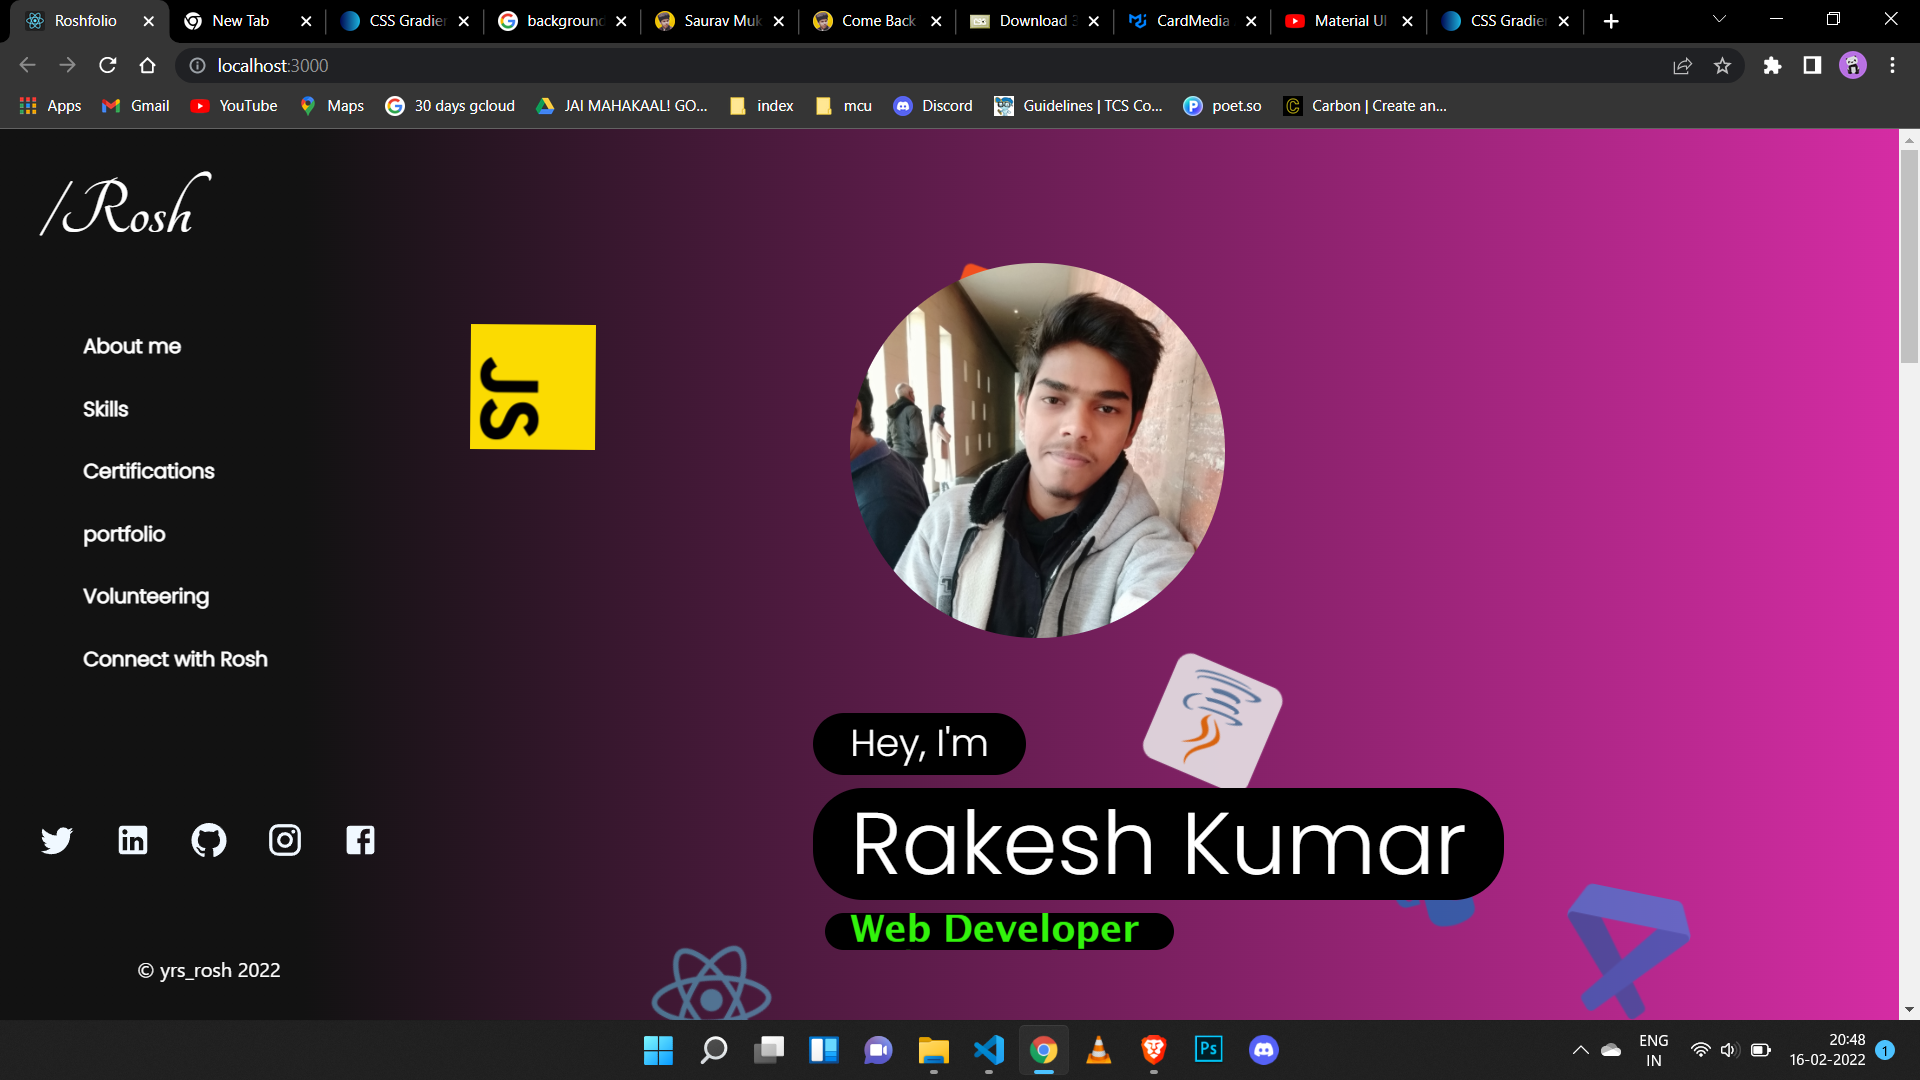
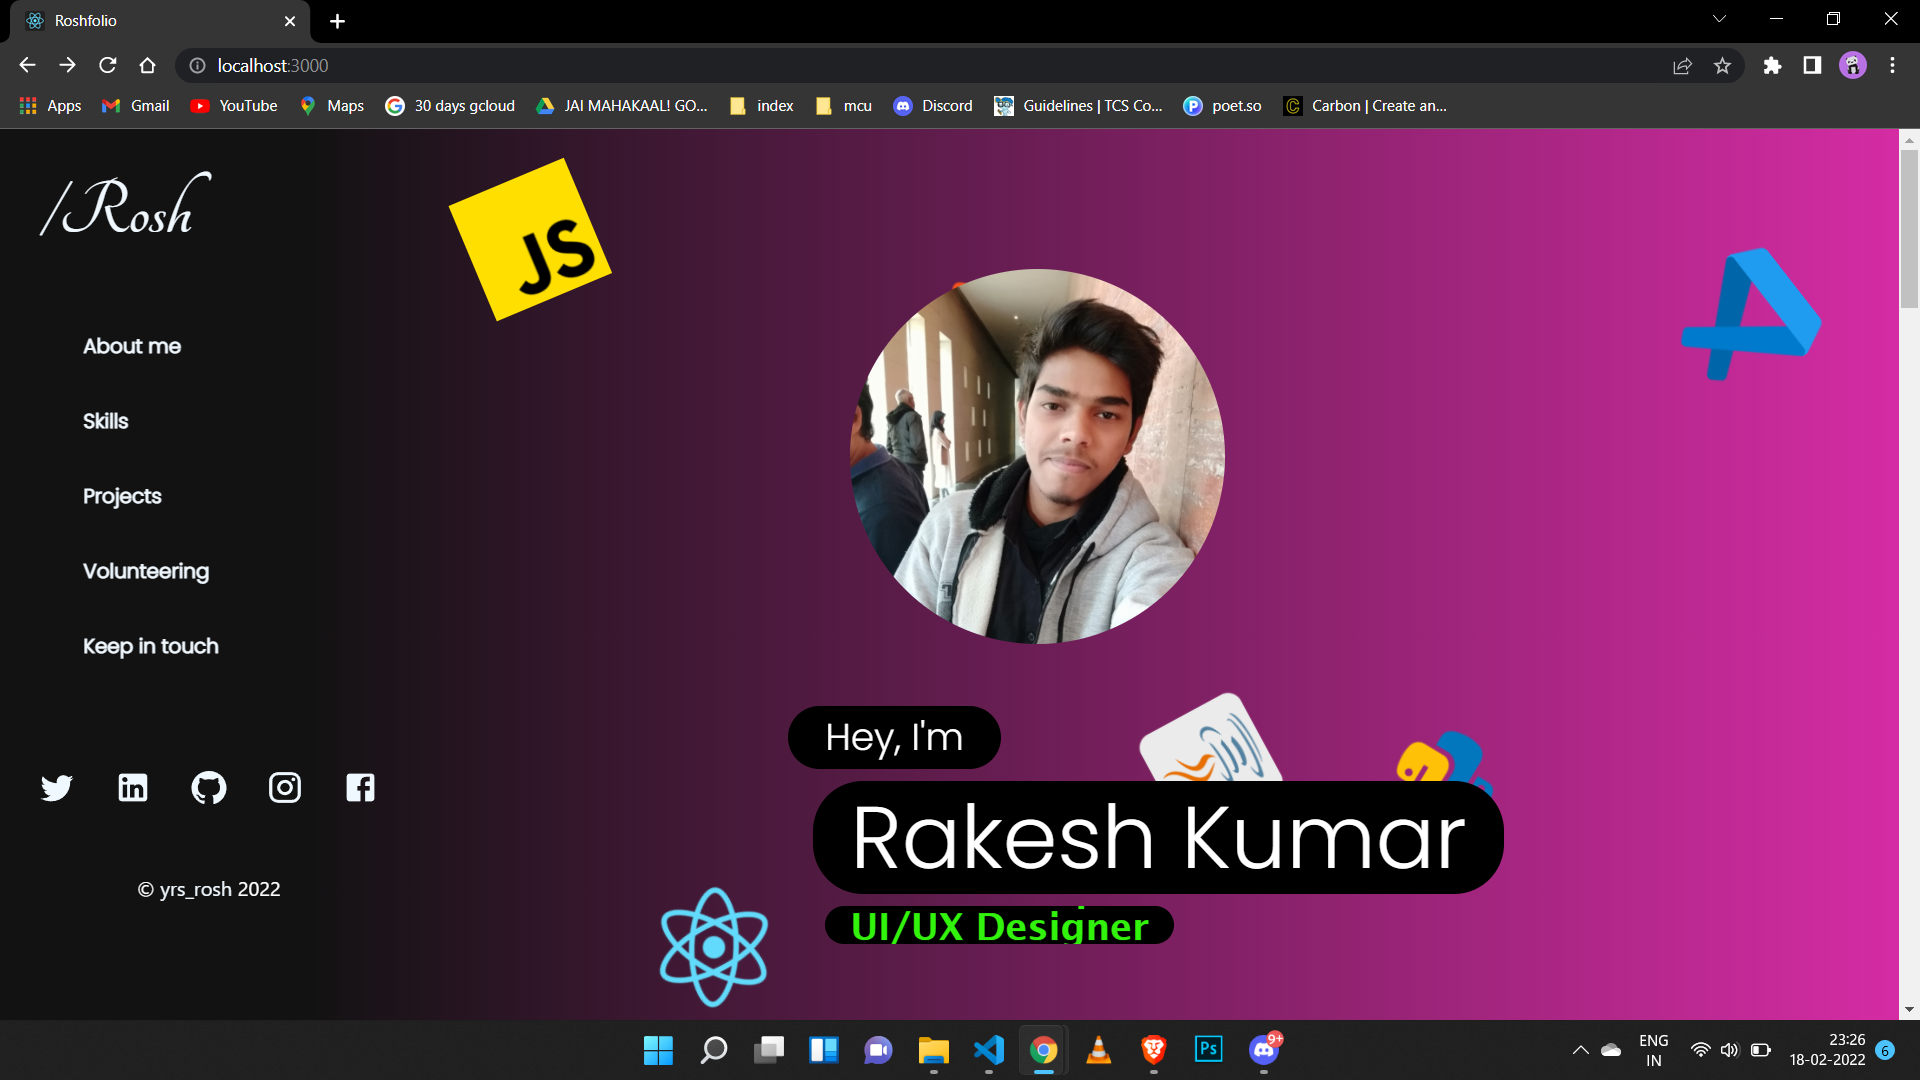
prefinal commit

diff --git a/src/Components/Volunteering/Volunteering.jsx b/src/Components/Volunteering/Volunteering.jsx
@@ -7,13 +7,37 @@ import CardMedia from "@mui/material/CardMedia";
 
 import Typography from "@mui/material/Typography";
 
-
 function Volunteering() {
   return (
     <div className=" frontpage pagesize">
       <div className="container">
       <h1>Volunteering</h1>
-        <Card sx={{ display: "flex", width: "100%", backgroundColor: "rgba(18,18,18,0.5)" }}>
+      <Card sx={{ display: "flex", maxWidth: 600 , backgroundColor: "rgba(18,18,18,0.5)" }}>
+          <Box sx={{ color: "white", display: "flex", flexDirection: "column" }}>
+            <CardContent sx={{ flex: "1 0 auto" }}>
+              <Typography component="div" variant="h4">
+                Coding ninjas
+              </Typography>
+              <Typography
+              marginY={1}
+                variant="h6"
+                component="div"
+              >
+                (Ninja Enterpreneur)
+              </Typography>
+              <Typography variant="subtitle2" >
+                  Campus Ambassador (BCE Bhagalpur)
+                </Typography>
+            </CardContent>
+          </Box>
+          <CardMedia
+            component="img"
+            sx={{ width: 100 , height: 100}}
+            image="cn.jpeg"
+            alt="Live from space album cover"
+          />
+        </Card>
+        <Card sx={{ display: "flex", maxWidth: 600 , backgroundColor: "rgba(18,18,18,0.5)" }}>
           <Box sx={{ color: "white", display: "flex", flexDirection: "column" }}>
             <CardContent sx={{ flex: "1 0 auto" }}>
               <Typography component="div" variant="h4">
@@ -27,17 +51,18 @@ function Volunteering() {
                 (Co-founder)
               </Typography>
               <Typography variant="subtitle2" >
-                  Official coding club of BCE bhagalpur. A perfect place for coding enthusiast
+                  Official coding club of BCE bhagalpur. 
                 </Typography>
             </CardContent>
           </Box>
           <CardMedia
             component="img"
-            sx={{ width: 151 }}
+            sx={{ width: 100, height:100}}
             image="debuggerzz.png"
             alt="Live from space album cover"
           />
         </Card>
+        
       </div>
     </div>
   );

diff --git a/src/Components/Sidebar.jsx b/src/Components/Sidebar.jsx
@@ -1,33 +1,36 @@
 
 import React, { Component } from "react";
 import Social from "./Social";
+import { Link, NavLink } from "react-router-dom";
 
 class Sidebar extends Component {
   render() {
     return (
       <div className="sidebar">
         <div className="logo">
-          <a href="/">/Rosh</a>
+          <NavLink exact to="/">Rosh</NavLink>
         </div>
         <div className="sidelinks">
-          <a href="/error">About me</a>{" "}
+        <NavLink activeClassName="active" to="/about">About</NavLink>
         </div>
         <div className="sidelinks">
-          <a href="#">Skills</a>{" "}
+        <NavLink activeClassName="active" to="/skills">Skills</NavLink>
+
+          
         </div>
         <div className="sidelinks">
-          <a href="#">Projects</a>{" "}
+        <NavLink activeClassName="active" to="/projects">Projects</NavLink>
         </div>
         <div className="sidelinks">
-          <a href="#">Volunteering</a>{" "}
+        <NavLink activeClassName="active" to="/volunteering">Volunteering</NavLink>
         </div>
         <div className="sidelinks">
-          <a href="#">Keep in touch</a>{" "}
+        <NavLink activeClassName="active" to="/connect">Connect</NavLink>
         </div>
 
         <Social />
         <div>
-          © <a href="#">yrs_rosh</a> 2022
+          © <a target="_blank" href="https://github.com/yrs-rosh">yrs_rosh</a> 2022
         </div>
       </div>
     );

diff --git a/src/App.js b/src/App.js
@@ -6,14 +6,26 @@ import Main from './Components/Main';
 import { Route, Routes } from 'react-router-dom';
 import UnderConstruction from './UnderConstruction';
 import Notfound from './Notfound';
+import Aboutme from './Components/Aboutme/Aboutme';
+import Skills from './Components/Skills/Skills';
+import Portfolio from './Components/Portfolio/Portfolio';
+import Contact from './Components/Contact/Contact';
+import Volunteering from './Components/Volunteering/Volunteering';
 
 function App() {
   return (
     <div className="App">
       <Sidebar/>
       <Routes>
+      
       <Route path='/' element={<Main className="pagesize" />}/>
-      <Route path='/not' element={<UnderConstruction className="pagesize" />}/>
+      <Route path='/about' element={<Aboutme className="pagesize" />}/>
+      <Route path='/skills' element={<Skills className="pagesize" />}/>
+      <Route path='/projects' element={<Portfolio className="pagesize" />}/>
+      <Route path='/volunteering' element={<Volunteering className="pagesize" />}/>
+      <Route path='/error404' element={<Notfound className="pagesize" />}/>
+      <Route path='/connect' element={<Contact className="pagesize" />}/>
+      <Route path='/more' element={<UnderConstruction className="pagesize" />}/>
       <Route path='*' element={<Notfound />} />
       </Routes>
     </div>

diff --git a/src/Components/Social.js b/src/Components/Social.js
@@ -5,11 +5,11 @@ import {Facebook, GitHub, Instagram, Twitter, LinkedIn} from '@mui/icons-materia
 function Social() {
   return (
     <div className='social '>
-    <a className='socmed' href='https://facebook.com' target='_blank'><Twitter sx={{ fontSize: 30}} /></a>
-    <a className='socmed' href='https://facebook.com' target='_blank'><LinkedIn sx={{ fontSize: 30}} /></a>
-    <a className='socmed' href='https://facebook.com' target='_blank'><GitHub sx={{ fontSize: 30}} /></a>
-    <a className='socmed' href='https://facebook.com' target='_blank'><Instagram sx={{ fontSize: 30}} /></a>
-    <a className='socmed' href='https://facebook.com' target='_blank'><Facebook sx={{ fontSize: 30}} /></a>
+    <a className='socmed' href='https://twitter.com/yrs_rosh' target='_blank'><Twitter sx={{ fontSize: 30}} /></a>
+    <a className='socmed' href='https://www.linkedin.com/in/yrsrosh/' target='_blank'><LinkedIn sx={{ fontSize: 30}} /></a>
+    <a className='socmed' href='https://github.com/yrs-rosh' target='_blank'><GitHub sx={{ fontSize: 30}} /></a>
+    <a className='socmed' href='https://www.instagram.com/yrs_rosh/' target='_blank'><Instagram sx={{ fontSize: 30}} /></a>
+    <a className='socmed' href='https://www.facebook.com/yrsrosh/' target='_blank'><Facebook sx={{ fontSize: 30}} /></a>
     
     </div>
   )

diff --git a/src/Components/Header/header.css b/src/Components/Header/header.css
@@ -111,7 +111,7 @@
     left: 17%;
     top: 50%;
     animation: fall 4s linear infinite;
-    animation-delay: -4s;
+    animation-delay: -7s;
   }
   .leaf div:nth-child(3) {
     left: 35%;
@@ -132,7 +132,7 @@
     animation-delay: -4s;
   }
   .leaf div:nth-child(6) {
-    left: 77%;
+    left: 85%;
     top: 80%;
     animation: fall 3s linear infinite;
     animation-delay: -4s;
@@ -141,16 +141,14 @@
   @keyframes fall {
     0% {
       top: -10%;
-      opacity: 1;
     }
     50% {
+      top: 100%;
       transform: rotate(180deg);
-      opacity: 0.96;
     }
     100% {
-      top: 110%;
+      top: -10%;
       transform: rotate(360deg);
-      opacity: 0.2;
     }
   }
 /* background animation */

diff --git a/src/Components/Contact/Contact.jsx b/src/Components/Contact/Contact.jsx
@@ -17,7 +17,7 @@ function Contact() {
           >
             <CardContent align="left">
             <Typography variant="h6" >
-                  If you like my work and wanna peer coding or collaborate on projects, please ping me anywhere listed below. My inbox is always open🥰
+            Thank you for visiting my personal portfolio website. Connect with me over socials 🥰. If you want to collaborate or share something, do ping me over there. My inbox is always open.
                 </Typography>
               <Typography
                 gutter

diff --git a/src/components.css b/src/components.css
@@ -80,7 +80,7 @@
 
 .sidelinks:hover {
   color: cyan;
-  transform: scale(1.2);
+  /* transform: scale(1.2); */
   transition: 0.3s ease-in-out;
 }
 
@@ -132,12 +132,21 @@
 
 
 a{
-  color: aliceblue;
+  color: antiquewhite;
 }
 a:hover{
   color: aqua;
+  opacity: .8;
   transition: 0.4s ease-in-out;
 
+}
+
+.navigator{
+  position: absolute;
+}
+
+.active{
+  color: cyan;
 }
 .size{
   border-radius: 20px;

diff --git a/src/Components/Portfolio/Portfolio.js b/src/Components/Portfolio/Portfolio.js
@@ -10,7 +10,7 @@ import { Container, Grid } from "@mui/material";
 
 function Portfolio() {
   return (
-    <div className="frontpage">
+    <div className="frontpage pagesize">
     <div className='container'>
         <h1>Projects</h1>
         <Grid container spacing={3}>

diff --git a/src/Components/Aboutme/Aboutme.js b/src/Components/Aboutme/Aboutme.js
@@ -4,7 +4,7 @@ import "./aboutme.css";
 
 function Aboutme() {
   return (
-    <div className=" frontpage">
+    <div className=" frontpage pagesize">
       <div className="container">
         <h1>About Me</h1>
         <div className="text">

diff --git a/src/App.css b/src/App.css
@@ -1,5 +1,5 @@
 .App {
-  background: linear-gradient(90deg, rgba(18,18,18,1) 16%, rgba(213,44,164,1) 100%);
+  background: linear-gradient(90deg, rgba(18,18,18,1) 16%, rgb(213, 44, 164) 100%);
   text-align: center;
 }
 
